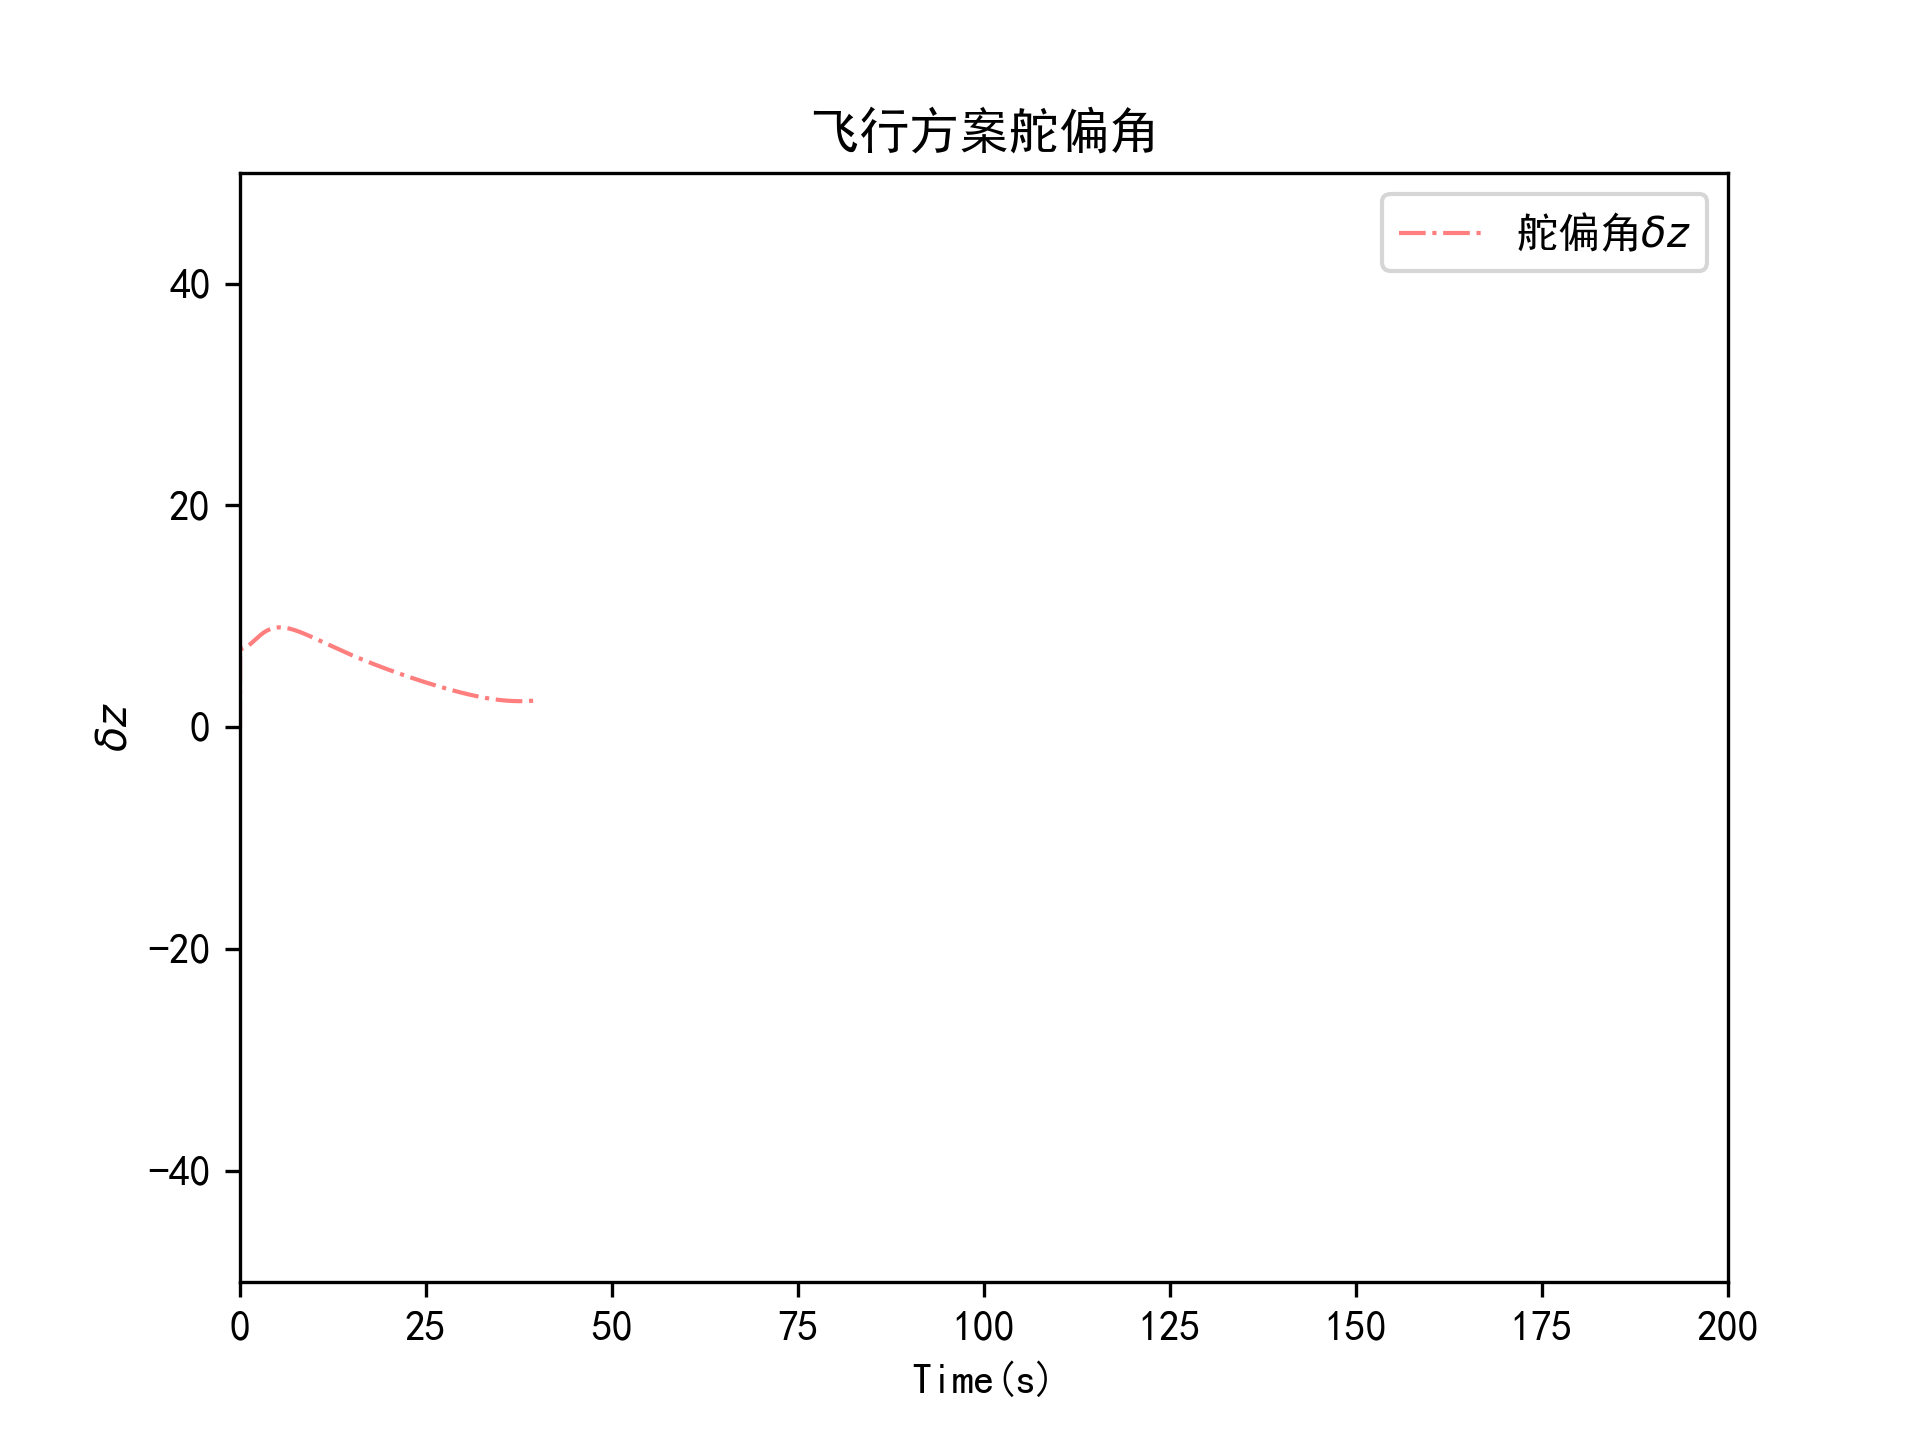
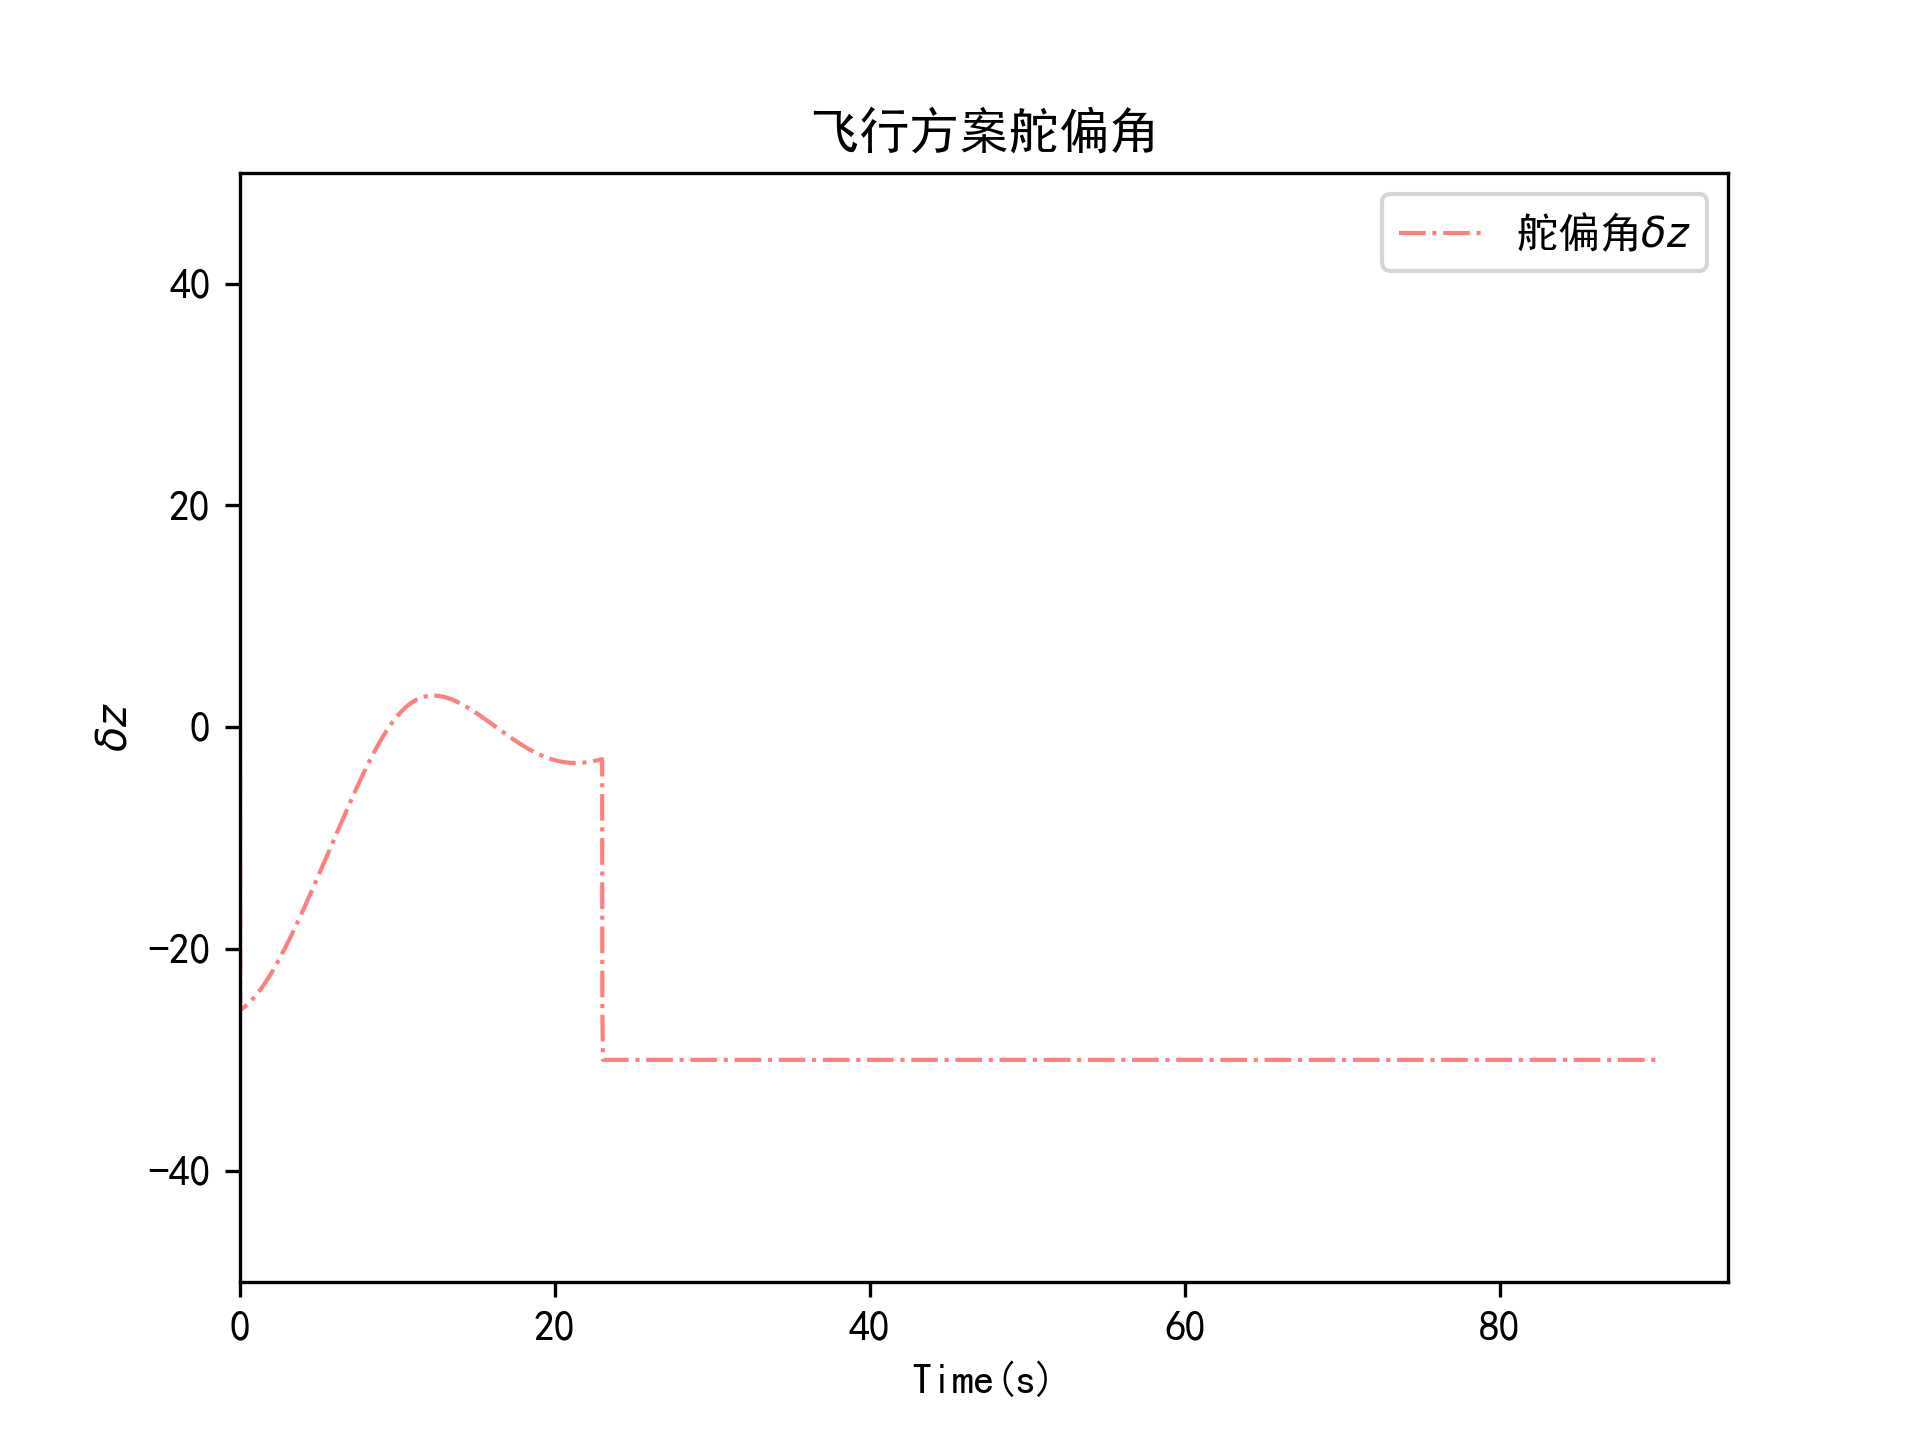
222

diff --git a/new/test.py b/new/test.py
@@ -13,15 +13,23 @@ plt.rcParams['font.sans-serif'] = ['SimHei']
 plt.rcParams['axes.unicode_minus'] = False 
 
 # 导弹参数
-S_ref   =   0.45
-L_ref   =   2.5
+S_ref   =   0.13
+L_ref   =   5.31
 
 # 放大系数
 K_phi = - 0.5
 K_phi_dot= 0.6* K_phi
-K_q = 5
+K_q = 9
 
+# 系数
+Cy_a = 0.25
+Cy_b = 0.05
 
+Cx = 0.25
+Cx_a = 0.05
+
+Mz_a = 0.1
+Mz_b = 0.024
 # 仿真时间步
 timestep = 0.01
 
@@ -47,38 +55,34 @@ class statu():
         self.deltaz = 0
         self.dq = 0
 
-    # 显式Euler法，给定飞行高度
-    def Euler(self, before, dmass):
+    # 比例导引法，给定目标位置
+    def Euler1(self, before, Xm, Ym, P=0):
+        dmass = P/2400
         self.Time = before.Time + timestep
-        
         self.X = before.X + before.V * np.cos(before.theta) * timestep
         self.H = before.H + before.V * np.sin(before.theta) * timestep
+        self.mass = before.mass - dmass * timestep
+        self.r = np.sqrt((self.X - Xm)*(self.X - Xm) + (self.H - Ym)*(self.H - Ym))
+        self.dq = - before.V * np.sin(before.theta - np.arctan(( self.H - Ym)/(self.X - Xm)))/ self.r
+        self.theta = before.theta + K_q * self.dq * timestep
+        self.alpha = (self.mass* before.V * K_q * self.dq + self.mass * 9.8 * np.cos(self.theta))/(P +  (Cy_a - Cy_b/ Mz_b * Mz_a) * 0.5 * air(self.H) * before.V * before.V * S_ref) /3.14159*180
 
-        self.deltaz = K_phi * (self.H - High_goal(self.X)) + K_phi_dot* (before.V * np.sin(before.theta) - High_goal_dot(self.X))
-
+        self.deltaz = - self.alpha * Mz_a / Mz_b 
+        
         if self.deltaz > 30:
             self.deltaz = 30
-        elif self.deltaz < -30:
+        if self.deltaz < -30:
             self.deltaz = -30
 
-        self.alpha =  0.24 *self.deltaz
-
-        Y = (0.25 * self.alpha + 0.05* self.deltaz) * 0.5 * air(self.H) * before.V * before.V * S_ref
-
-        X = (0.005 * self.alpha * self.alpha + 0.2) * 0.5 * air(self.H) * before.V * before.V * S_ref
+        self.alpha = -self.deltaz / Mz_a * Mz_b
         
-        self.mass = before.mass - dmass * timestep
-        if dmass == 0:
-            P = 0
-        else:
-            P = 2000
-        
+        X = (Cx_a * self.alpha * self.alpha + Cx) * 0.5 * air(self.H) * before.V * before.V * S_ref
         self.V = before.V + (P*np.cos(before.alpha*3.14159625/180) - X - self.mass*9.8*np.sin(before.theta)) /self.mass*timestep
-        self.theta = before.theta + (P*np.sin(self.alpha*3.14159625/180) + Y - self.mass*9.8*np.cos(before.theta)) /self.mass/self.V*timestep
-
+    
     # 比例导引法，给定目标位置
     def Euler2(self, before, Xm, Ym):
-        dmass=4.6
+        P = 0
+        dmass=P/2400
         self.Time = before.Time + timestep
         
         self.X = before.X + before.V * np.cos(before.theta) * timestep
@@ -91,7 +95,7 @@ class statu():
 
         self.theta = before.theta + K_q * self.dq * timestep
         
-        P = 300000
+        
         
 
         self.alpha = (self.mass* before.V * K_q * self.dq + self.mass * 9.8 * np.cos(self.theta))/(P +  (0.25 + 0.05/0.24) * 0.5 * air(self.H) * before.V * before.V * S_ref) /3.14159*180
@@ -145,42 +149,44 @@ def air (High):
     rho = rho0 * np.exp(4.25588*np.log(Temp / T0))
     return rho
 
-# 飞行方案
-def High_goal(X):
-    if X <= 9100:
-        return 2000 * np.cos(0.000314 * 1.1 * X) + 5000
-    elif X <= 24000:
-        return 3050
-    else:
-        return 0
-
-# 飞行方案的时间导数
-def High_goal_dot(X):
-    if X <= 9100:
-        return -2000 * 0.000314 * np.sin(0.000314 * 1.1 * X)
-    elif X <= 24000:
-        return 0
-    else:
-        return 0
-
 
 # 飞行初始状态
-statu_n = [statu(0, 0, 0, 0, 0, 907)]
+statu_n = [statu(0, 0, 0, 0, 38, 914)]
 statu_n[0].alpha = 0
 statu_n[0].deltaz = 0
 
-X_goal = np.arange(0,100000,16000)
-H_goal = [High_goal(i) for i in X_goal]
-plt.plot(X_goal,H_goal, 'b--', alpha=0.5, linewidth=1, label='飞行方案高度')
+# 第一阶段
+while statu_n[-1].mass > 914-600 and statu_n[-1].H < 25000 and 0:
+    statu_n.append(statu(statu_n[-1].Time + timestep))
+    statu_n[-1].Euler1(statu_n[-2],30000,30000,30000)
+    print(statu_n[-1].X,statu_n[-1].H)
 
+print(statu_n[-1].Time)
 
+# 第二阶段
+while statu_n[-1].X < 95000 and statu_n[-1].Time < 150 and 0:
+    K_q=8
+    statu_n.append(statu(statu_n[-1].Time + timestep))
+    statu_n[-1].Euler1(statu_n[-2],98712,16000,0)
+    #print(statu_n[-1].V)
+print(statu_n[-1].Time)
 
 # 第三阶段
-while statu_n[-1].X < 100000:
+while statu_n[-1].X < 98712 and statu_n[-1].Time < 23 :
+    K_q=15
     statu_n.append(statu(statu_n[-1].Time + timestep))
-    statu_n[-1].Euler2(statu_n[-2],100000,16000)
+    statu_n[-1].Euler1(statu_n[-2],98712,16000,8e4)
     #print(statu_n[-1].V)
+print("位置",statu_n[-1].X, statu_n[-1].H)
+print("飞行时间：",statu_n[-1].Time,'seconds')
 
+while statu_n[-1].X < 98712 and statu_n[-1].Time < 90 :
+    statu_n.append(statu(statu_n[-1].Time + timestep))
+    statu_n[-1].Euler1(statu_n[-2],98712,16000,0)
+    x = [statu_n[-1].X, statu_n[-1].H]
+    #print(statu_n[-1].V)
+print("位置",statu_n[-1].X, statu_n[-1].H)
+print("飞行时间：",statu_n[-1].Time,'seconds')
 
 # 绘图
 X_data = [n.X for n in statu_n]
@@ -190,7 +196,7 @@ plt.title("弹道铅垂平面轨迹")
 plt.legend()  #显示上面的label
 plt.xlabel('X(m)') #x_label
 plt.ylabel('H(m)')#y_label
-plt.ylim(0,16000)
+plt.ylim(0,None)
 plt.xlim(0,100000) #仅设置y轴坐标范围
 plt.savefig('img2/飞行轨迹.png', dpi=300)
 plt.clf()
@@ -203,7 +209,7 @@ plt.legend()  #显示上面的label
 plt.xlabel('Time(s)') #x_label
 plt.ylabel('$\delta z$')#y_label
 plt.ylim(-50,50)
-plt.xlim(0,200)
+plt.xlim(0,None)
 plt.savefig('img2/飞行舵偏角.png', dpi=300)
 plt.clf()
 
@@ -213,7 +219,7 @@ plt.legend()  #显示上面的label
 plt.xlabel('Time(s)') #x_label
 plt.ylabel('H(m)')#y_label
 plt.ylim(0,16000)
-plt.xlim(0,50)
+plt.xlim(0,None)
 plt.savefig('img2/飞行高度.png', dpi=300)
 plt.clf()
 
@@ -223,8 +229,8 @@ plt.title("飞行速度的时间变化曲线")
 plt.legend()  #显示上面的label
 plt.xlabel('Time(s)') #x_label
 plt.ylabel('速度V')#y_label
-plt.ylim(100,250)
-plt.xlim(0,200)
+plt.ylim(0,None)
+plt.xlim(0,None)
 plt.savefig('img2/飞行速度.png', dpi=300)
 plt.clf()
 
@@ -235,6 +241,17 @@ plt.legend()  #显示上面的label
 plt.xlabel('Time(s)') #x_label
 plt.ylabel(r'$\theta$')#y_label
 plt.ylim(-50,50)
-plt.xlim(0,200)
+plt.xlim(0,None)
 plt.savefig('img2/飞行弹道倾角.png', dpi=300)
+plt.clf()
+
+M_data = [n.mass for n in statu_n]
+plt.plot(T_data,M_data, 'r-.', alpha=0.5, linewidth=1, label=r'舵偏角$\theta$')
+plt.title("质量变化曲线")
+plt.legend()  #显示上面的label
+plt.xlabel('Time(s)') #x_label
+plt.ylabel(r'$\theta$')#y_label
+plt.ylim(0,917)
+plt.xlim(0,None)
+plt.savefig('img2/质量.png', dpi=300)
 plt.clf()

diff --git a/new/chazhi.py b/new/chazhi.py
@@ -1,0 +1,17 @@
+import numpy as np
+from scipy.interpolate import interp1d
+# 假设你有一个数据表，这里用numpy数组表示
+# data_table 是一个二维数组，其中第一列是x值，第二列是y值
+data_table = np.array(
+    
+)
+# 提取x和y值
+x_values = data_table[:, 0]
+y_values = data_table[:, 1]
+# 创建一个插值函数
+# kind参数决定了插值的类型，'linear'代表线性插值
+interp_func = interp1d(x_values, y_values, kind='linear')
+# 现在你可以通过调用interp_func来进行插值
+# 例如，我们要在x=2.5的位置进行插值
+interp_value = interp_func(2.5)
+print(interp_value)  # 这将输出在x=2.5时的y值估计
